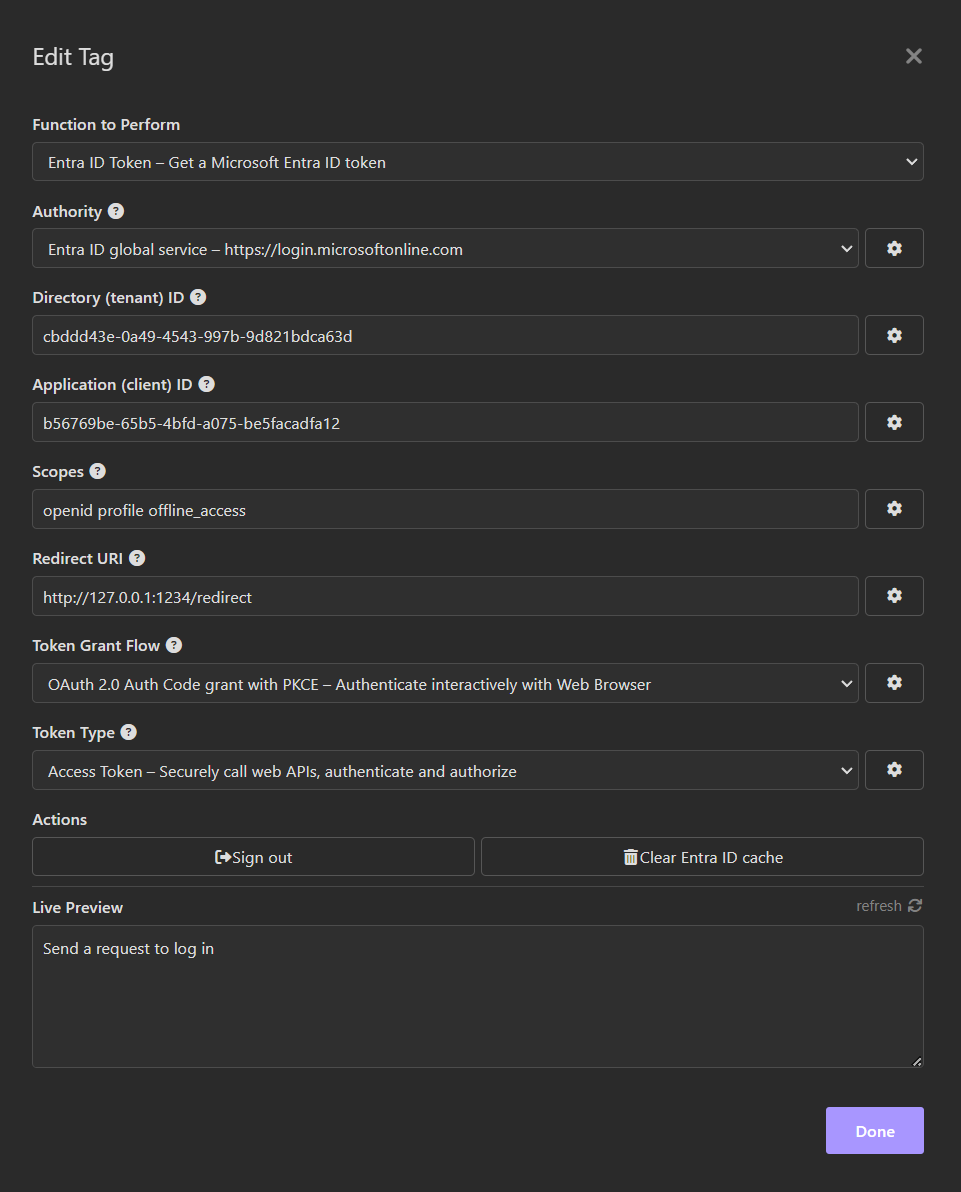
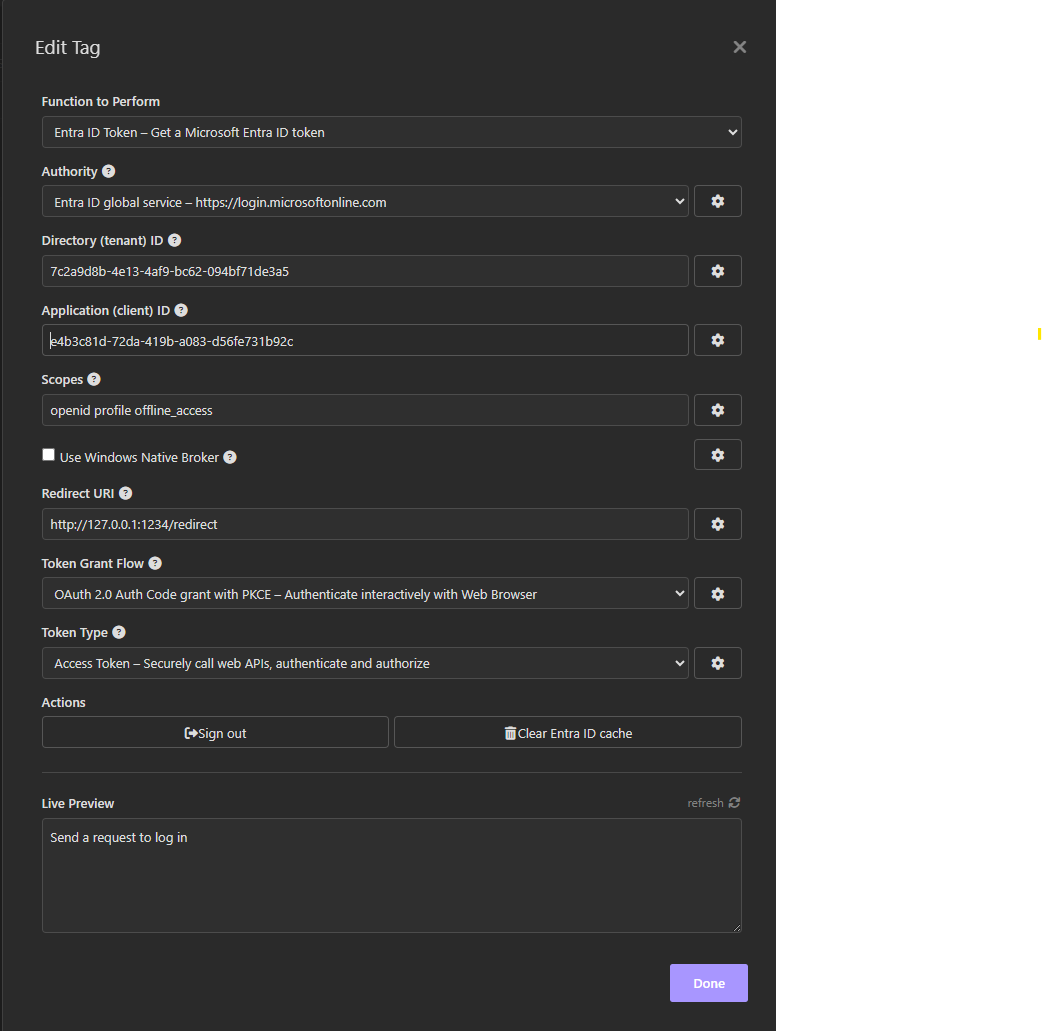
Update README.md with new features

diff --git a/README.md b/README.md
@@ -6,7 +6,7 @@ This plugin supports:
 * Account saving to Insomnia store,
 * Silent log in for saved accounts, even across Insomnia sessions.
 
-# Pre-requisites
+# Prerequisites
 This plugin requires [Insomnia](https://insomnia.rest/), the Open Source API client.
 
 # Installation
@@ -30,26 +30,38 @@ This plugin requires [Insomnia](https://insomnia.rest/), the Open Source API cli
 
    ![Logged out Template Tag](images/loggedout-tag.png)
 
-5. Click on the tag to edit. Specify the Directory (tenant) ID, the Application (client) ID, desired scopes and the Redirect URI. For Microsoft Accounts, set Directory to `consumers`. For Work or School accounts, set Directory to `organizations`, a tenant name or tenant ID (i.e `contoso.com` or `f0cb5560-5e2a-4b3b-88f9-8193bdd39f7a`). To allow for both Microsoft Accounts and Work or School accounts, select `common`. Choose the desired Scopes, Redirect URI (see [configure Microsoft Entra ID Application](#Configuring-the-Microsoft-Entra-ID-application)) and Token Grant Flow (see [Choosing a token grant flow](#Choosing-a-token-grant-flow)).
+5. Click on the tag to edit. Specify the Directory (tenant) ID, the Application (client) ID, desired scopes and the Redirect URI. For Microsoft Accounts, set Directory to `consumers`. For Work or School accounts, set Directory to `organizations`, a tenant name or tenant ID (i.e. `contoso.com` or `f0cb5560-5e2a-4b3b-88f9-8193bdd39f7a`). To allow for both Microsoft Accounts and Work or School accounts, select `common`. Choose the desired Scopes, Redirect URI (see [Configuring the Microsoft Entra ID application](#Configuring-the-Microsoft-Entra-ID-application)) and Token Grant Flow (see [Choosing a token grant flow](#Choosing-a-token-grant-flow)).
 
    ![Template Tag Properties](images/tag-properties.png)
 
+   When Insomnia is running on Windows, it is possible to choose to log in with the Windows Native Authentication Broker or with a Web Browser. See [Configuring the Microsoft Entra ID application](#Configuring-the-Microsoft-Entra-ID-application) to configure the Entra ID application for Windows Native Broker or Web Browser.
+
 6. Close the "Edit Tag" dialog,
-7. Send a request by pressing "Send". If an interactive login has been chosen, a browser window will appear and take you through the regular Microsoft Entra ID login flow, possibly including consent. When the authentication completes, the tag will display its logged in form as follows:
+7. Send a request by pressing "Send". If an interactive login has been chosen, a browser window will appear and take you through the regular Microsoft Entra ID login flow, possibly including consent. When the authentication completes, the tag will display its logged-in form as follows:
 
    ![Template Tag Properties](images/loggedin-tag.png)
 
 # Configuring the Microsoft Entra ID application
+The Entra ID application must be configured correctly before authenticating with the plugin. The configuration depends on the authentication method you choose:
+
+## [Windows Only] Use Windows Native Broker Checked
+This plugin **requires** a specific Redirect URI to be configured under "**Mobile and Desktop applications**" in Microsoft Entra ID. The Redirect URI must be `ms-appx-web://Microsoft.AAD.BrokerPlugin/<client id>` where `<client id>` is the Application (client) ID.
+
+When correctly configured, sending a request will trigger the Windows Native Authentication Broker to log in.
+
+   ![Windows Native Broker Setup](images/win-native-broker.mp4)
+
+## [All Platforms] Use Windows Native Broker Unchecked
 This plugin **requires** the Redirect URI specified during step 5 above to be configured under "**Mobile and Desktop applications**" or "**Web**" in Microsoft Entra ID. Other platforms (including "Single Page Application") are not currently supported.
 
 By default, the Redirect URI is `http://127.0.0.1:1234/redirect` and most users should configure their Microsoft Entra ID application with this default return URI.
 
 
-## I am unable to create or configure an application with a `http://localhost` Redirect URI. The portal wants `https` if the host is `localhost`
-See [Issue #2 - http not allowed anymore](https://github.com/GillesZunino/insomnia-plugin-azure-ad-authentication/issues/2) for instructions on how to force the redirect url to start with `http`. The idea is to edit the application manifest as follows:
-1. Configure the redirect url with `https` instead of `http`,
+### I am unable to create or configure an application with a `http://localhost` Redirect URI. The portal wants `https` if the host is `localhost`
+See [Issue #2 - http not allowed anymore](https://github.com/GillesZunino/insomnia-plugin-azure-ad-authentication/issues/2) for instructions on how to force the redirect URL to start with `http`. The idea is to edit the application manifest as follows:
+1. Configure the redirect URL with `https` instead of `http`,
 2. In the Entra ID portal, click on `Manifest`. This will open an editor with the application manifest as JSON,
-3. Locate the `redirectUriSettings` object and change the protocol in the url from `https` to `http`,
+3. Locate the `redirectUriSettings` object and change the protocol in the URL from `https` to `http`,
 4. Press `Save`
 
 For web browser token grant flows, the only practical option is a Redirect URI targeting `127.0.0.1` instead of `localhost` since some web browsers block navigation to `http://localhost`.
@@ -66,8 +78,6 @@ The following Redirect URI styles are **supported**:
    1. `http://127.0.0.1:<port></path>` where `port` is a valid port number above 1000 and available for binding. Examples include: `http://127.0.0.1:1234` or `http://127.0.0.1:1234/openid`,
    2. `http://<dns-name>:<port></path>` where `dns-name` resolves to 127.0.0.1 via an entry in the local machine `hosts` file. Examples include: `http://myapp:1234` or `http://myapp:1234/openid`.
 
-
-
 The following Redirect URI styles are **not supported**:
    1. Use of `https`. The plugin currently only supports `http` for Redirect URI,
    2. Use of `localhost`. Most web browsers block navigation to `localhost` or force the use of `https` which the plugin does not currently support,
@@ -76,10 +86,10 @@ The following Redirect URI styles are **not supported**:
 ## Configure for Shared Secret or Certificate authentication
 Microsoft Entra ID applications can authenticate as themselves without any user interaction. This capability can be enabled by adding a shared secret (client secret) or a certificate. More details can be found in the Microsoft Entra ID documentation [Quickstart: Register an application with the Microsoft identity platform](https://learn.microsoft.com/en-us/azure/active-directory/develop/quickstart-register-app#add-credentials)
 
-Learn more about Microsoft Entra ID Redirect URIs with [Redirect URI (reply URL) restrictions and limitations](https://learn.microsoft.com/en-us/entra/identity-platform/reply-url).
+Learn more about Microsoft Entra ID Redirect URIs in [Redirect URI (reply URL) restrictions and limitations](https://learn.microsoft.com/en-us/entra/identity-platform/reply-url).
 
 # Choosing a token grant flow
-This plugin supports the following OAuth 2.0 grant flows. For more information on OAuth 2.0 flows, see [Scenarios and supported authentication flows](https://learn.microsoft.com/en-us/azure/active-directory/develop/authentication-flows-app-scenarios#scenarios-and-supported-authentication-flows")
+This plugin supports the following OAuth 2.0 grant flows. For more information on OAuth 2.0 flows, see [Scenarios and supported authentication flows](https://learn.microsoft.com/en-us/azure/active-directory/develop/authentication-flows-app-scenarios#scenarios-and-supported-authentication-flows)
 1. Authorization code with PKCE - [Authorization code flow](https://learn.microsoft.com/en-us/azure/active-directory/develop/v2-oauth2-auth-code-flow),
 2. Client Credentials - [Shared secret](https://learn.microsoft.com/en-us/azure/active-directory/develop/v2-oauth2-client-creds-grant-flow#first-case-access-token-request-with-a-shared-secret),
 3. Client Credentials - [Certificate](https://learn.microsoft.com/en-us/azure/active-directory/develop/v2-oauth2-client-creds-grant-flow#second-case-access-token-request-with-a-certificate).
@@ -89,7 +99,7 @@ This is the most common flow. A web browser is opened and users authenticate wit
 
    ![Authorization code with PKCE template tag properties](images/tag-auth-code.png)
 
-When using this flow, the Scopes accepts a space separated list of Microsoft Entra ID permissions like `openid offline_access`.
+When using this flow, the Scopes accepts a space-separated list of Microsoft Entra ID permissions like `openid offline_access`.
 
 ## Client Credentials - Shared secret
 This flow permits a web service (confidential client) to use its own credentials, instead of impersonating a user, to authenticate when calling another web service. The client presents a pre-established shared secret. This flow is not recommended in production. Create a shared secret in Microsoft Entra ID and paste the secret in the 'Shared Secret' field.